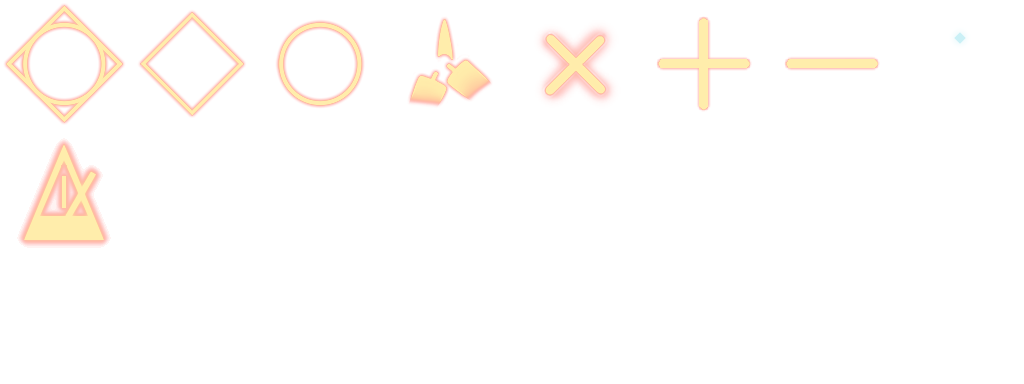
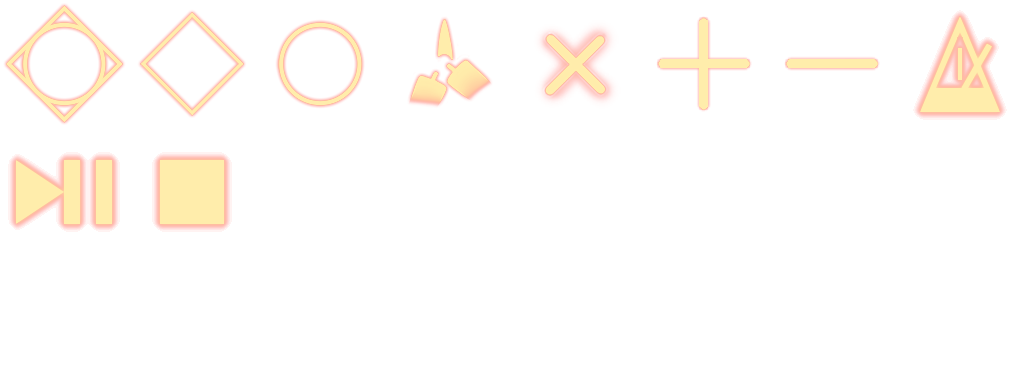
-

Changed region(s): [[0.0, 0.375, 0.25, 0.6562], [0.875, 0.0312, 1.0, 0.3125]]

diff --git a/seq.html b/seq.html
@@ -9,16 +9,14 @@
 	<script src="style.js"></script>
 	<script src="https://tonejs.github.io/build/Tone.js"></script>
 	<style>
-		.grid,button{display:inline-block;width:64px;height:64px;margin:4px;background:#6668;color:#fff;text-shadow:0 0 4px #0008;border:none;border-radius:16px;box-shadow:0 0 8px #6668;text-align:center;vertical-align:middle;}
-		button,input{outline:none;font-size:24px;font-family:"M PLUS Rounded 1c",sans-serif;padding:0;}
+		.grid{display:inline-block;width:64px;height:64px;margin:4px;background:#6668;color:#fff;text-shadow:0 0 4px #0008;border:none;border-radius:16px;box-shadow:0 0 8px #6668;text-align:center;vertical-align:middle;outline:none;font-size:24px;font-family:"M PLUS Rounded 1c",sans-serif;padding:0;}
 		.bg{background-image:url(img/seq.png);background-size:800% auto;background-position:var(--bp);}
 	</style>
 
 
-	<button onclick="Tone.start();ptoggle()">⏯
-	</button><button onclick="pstop()">⏹
-	</button><input id="bpm_" class="grid bg" type="num" onchange="bpmpr(this);" style="--bp:0px -64px;"></input><br>
-	<button onclick="sc--;sc_.textContent=sc;">-</button><button id="sc_" class="grid" onclick="sc=main.sc;sc_.textContent=sc;"></button><button onclick="sc++;sc_.textContent=sc;">+</button><br>
+	<button onclick="Tone.start();ptoggle()" class="grid bg" style="--bp:0px -64px;"></button><button onclick="pstop()"class="grid bg" style="--bp:-64px -64px;">
+	</button><input id="bpm_" class="grid bg" type="num" onchange="bpmpr(this);" style="--bp:-448px 0px;"></input><br>
+	<button onclick="sc--;sc_.textContent=sc;" class="grid bg" style="--bp:-384px 0px;"></button><button id="sc_" class="grid" onclick="sc=main.sc;sc_.textContent=sc;"></button><button onclick="sc++;sc_.textContent=sc;" class="grid bg" style="--bp:-320px 0px;"></button><br>
 	<pre id="log"></pre>
 
 	<script>
